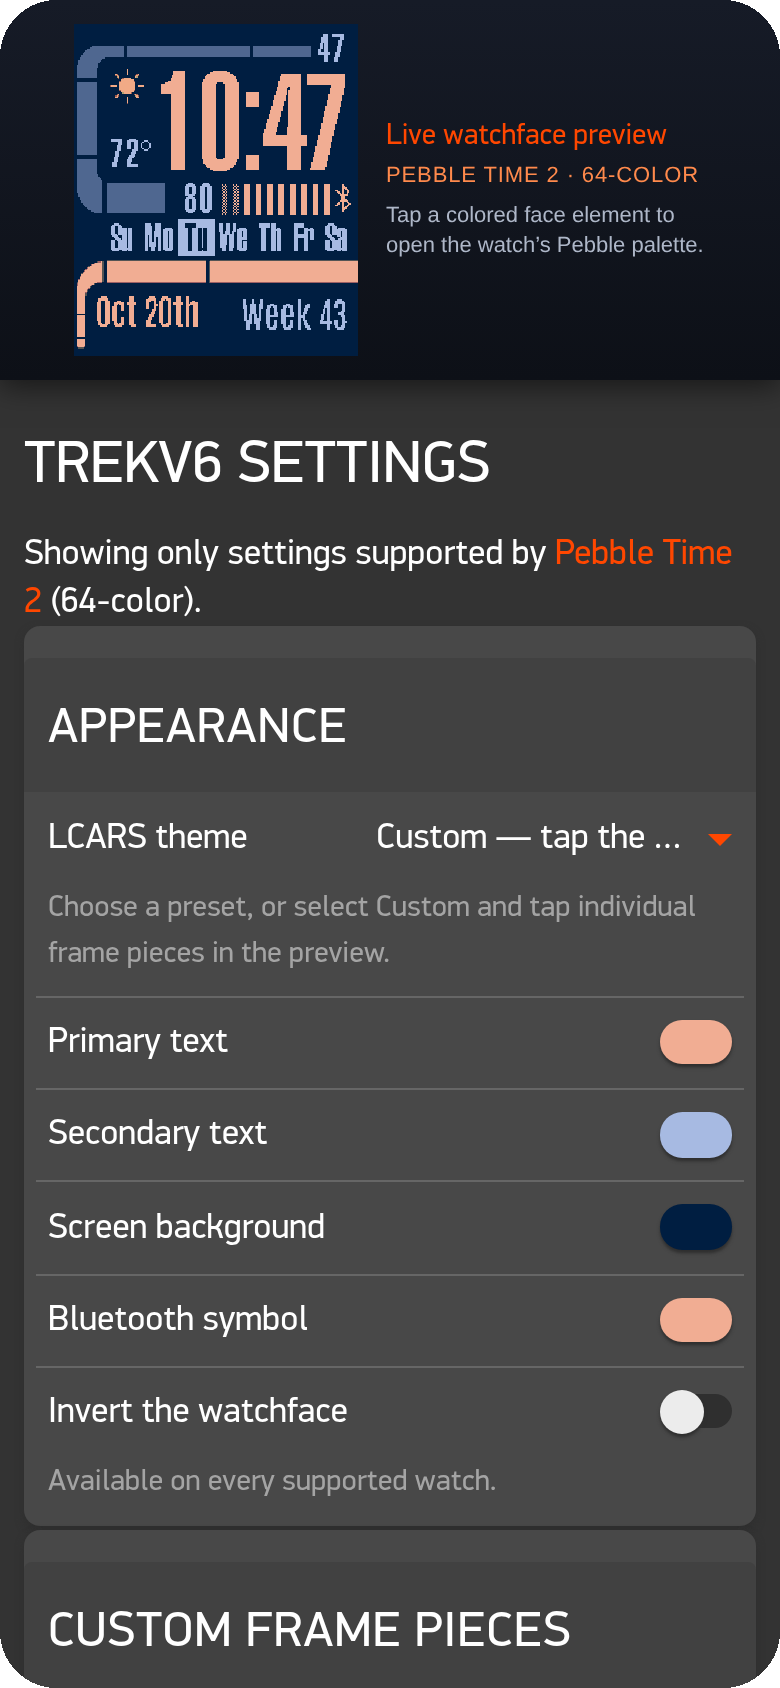
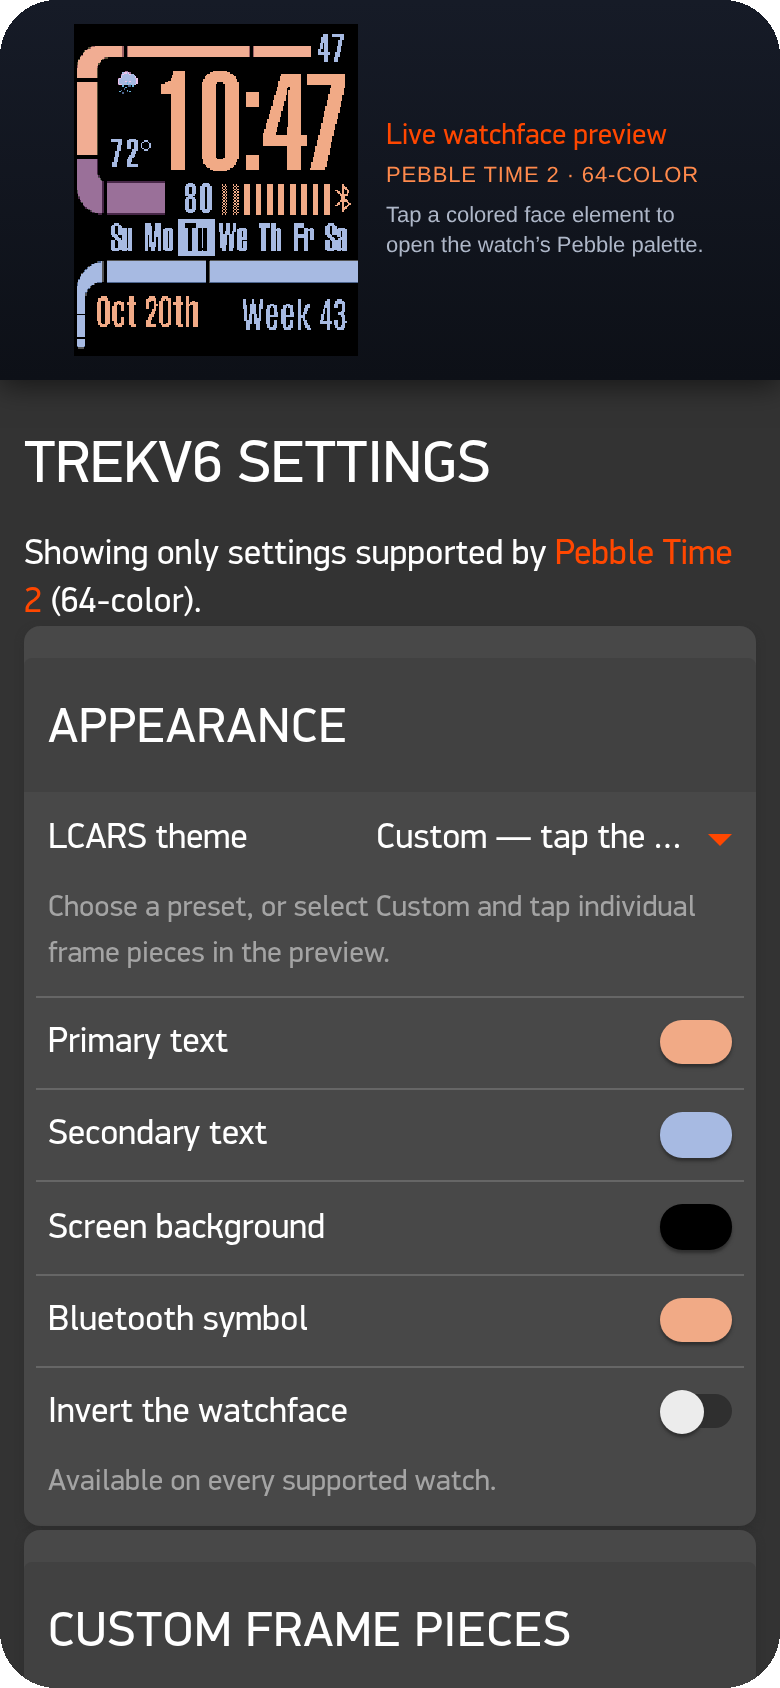
README: Star Trek faction palettes
Replace the screenshot palettes with ones drawn from the shows: LCARS
(The Next Generation), Klingon, Romulan, Borg, Cardassian and Original
Series, with the disconnect alert in Red Alert. Settings screenshots
use the LCARS palette.

Changed region(s): [[0.0923, 0.0, 0.4615, 0.2156], [0.8308, 0.7085, 0.9538, 0.7393]]

diff --git a/README.md b/README.md
@@ -4,7 +4,7 @@
 
 **An LCARS watchface for Pebble, drawn live in code.**
 
-<img src="docs/images/faces.png" alt="Trekv6 on Pebble Time 2 in six palettes: Gamma Shift, Ten Forward, Risa, Château, Tricorder and Romulan" width="100%">
+<img src="docs/images/faces.png" alt="Trekv6 on Pebble Time 2 in six palettes: LCARS, Klingon, Romulan, Borg, Cardassian and Original Series" width="100%">
 
 [**Download**](https://github.com/nbetcher/pebbleface-trekv4/releases/latest) &nbsp;·&nbsp;
 [What's new](.github/release-notes/v6.0.0.md) &nbsp;·&nbsp;
@@ -47,18 +47,19 @@ the watch **pixel for pixel**. Other watches get a close vector preview.
 
 ## Palettes to try
 
-Every face above is a custom palette. Choose **Custom** in Settings and tap your way to:
+Every face above is a custom palette inspired by a corner of the Star Trek universe.
+Choose **Custom** in Settings and tap your way to:
 
-| Palette         | Frame: top · middle · bottom   | Text · secondary  | Background |
-| --------------- | ------------------------------ | ----------------- | ---------- |
-| **Gamma Shift** | Graphite · graphite · orange   | White · silver    | Black      |
-| **Ten Forward** | Slate · slate · apricot        | Apricot · lavender | Navy      |
-| **Risa**        | Orange · silver · cobalt       | Black · cobalt    | White      |
-| **Château**     | Wine · ochre · cream           | Cream · dusty rose | Black     |
-| **Tricorder**   | Black (no frame)               | Amber · amber     | Black      |
-| **Romulan**     | Teal · jade · olive            | Mint · sea green  | Black      |
+| Palette             | Frame: top · middle · bottom                  | Text · secondary      | Inspired by                       |
+| ------------------- | --------------------------------------------- | --------------------- | --------------------------------- |
+| **LCARS**           | Peach · lilac · periwinkle                    | Orange · periwinkle   | The Next Generation's consoles    |
+| **Klingon**         | Blood red · oxblood · gold                    | Red · gold            | Bird-of-Prey displays             |
+| **Romulan**         | Deep green · jade · imperial gold             | Bright green · gold   | Warbird green, imperial gold        |
+| **Borg**            | Charcoal, all three                           | Borg green · green    | Cube interiors and the red eyepiece laser |
+| **Cardassian**      | Bronze · olive · amber                        | Yellow · amber        | Terok Nor's screens               |
+| **Original Series** | Command gold · sciences blue · operations red | White · gold          | The 1960s uniforms                |
 
-<p align="center"><img src="docs/images/disconnect.png" alt="The LCARS Bluetooth-disconnected popup in the Gamma Shift palette" width="240"><br><sub>The disconnect alert, in Gamma Shift</sub></p>
+<p align="center"><img src="docs/images/disconnect.png" alt="The LCARS Bluetooth-disconnected popup in Red Alert colors" width="240"><br><sub>Losing your phone puts the bridge on Red Alert</sub></p>
 
 ## Install
 
